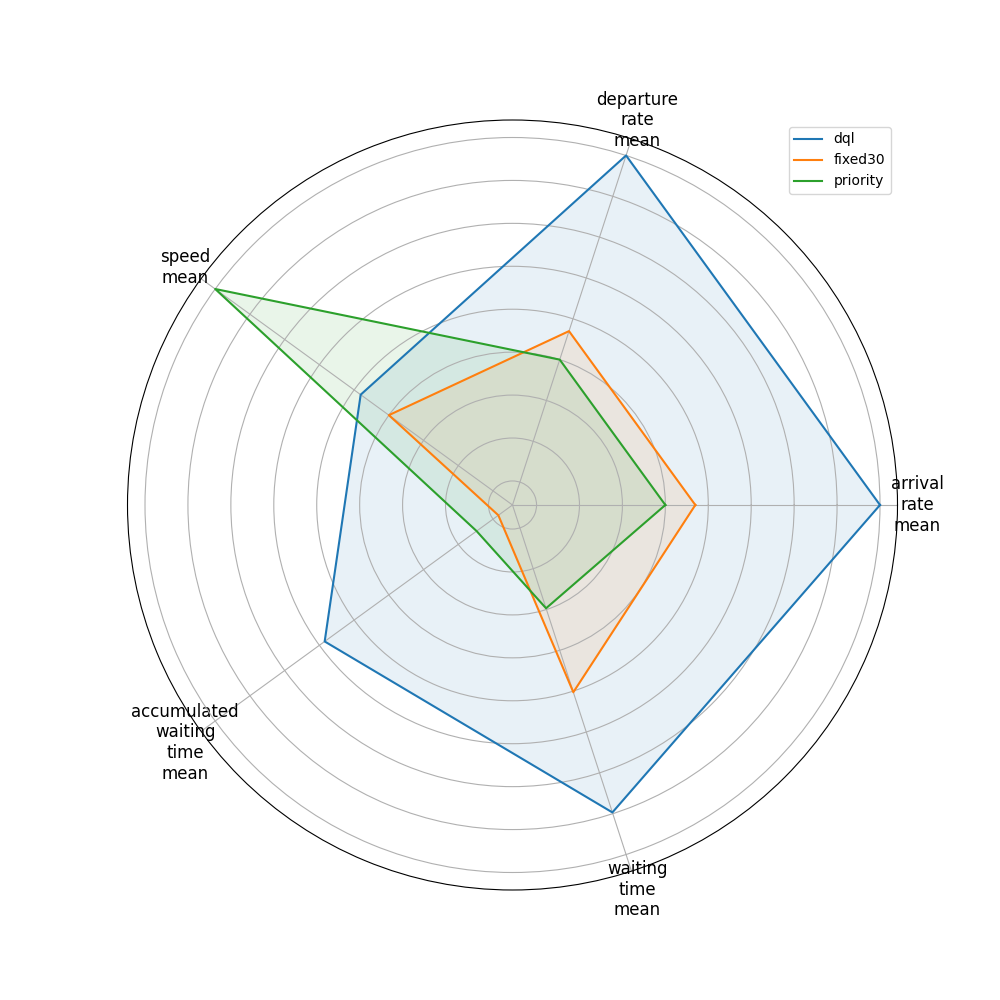
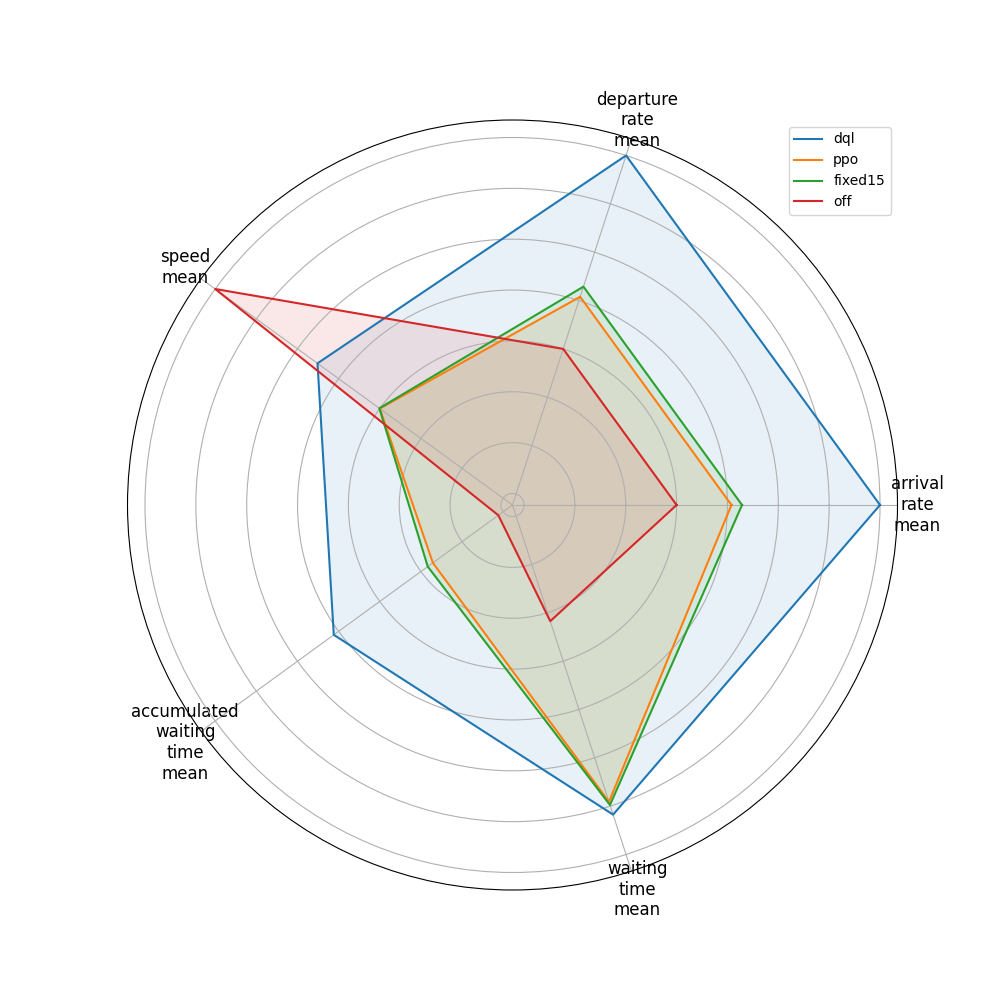
ok

diff --git a/chapters/experiments.tex b/chapters/experiments.tex
@@ -133,28 +133,61 @@ In both the experiments, the dataset being used is \textit{Curriculum Daily + Di
 
 As can be seen in Figure \ref{fig:exp-3-tab}, the QL and DQL agents show a clear advantage over the other model in terms of average speed, throughput (arrival/departure rate) and accumulated waiting time.
 In fact, their metrics are very similar: the tie is break using the accumulated waiting time metric in which the DQL agent is $1$ second faster.
-However, if we look at waiting times, the SARSA agent is in average $2$ seconds faster than the Off Policy agents.
+However, looking at waiting times, the SARSA agent is in average $2$ seconds faster than the Off Policy agents.
 Its slower score record in accumulated waiting time is probably due to SARSA's tendency to favor a faster pace experience over long run waiting time.
 
 \putimage{figures/exp/exp-3-tab.png}{Comparison of QL, SARSA and DQL agents.}{fig:exp-3-tab}{1.0}
 
 \subsection{RQ 3.2 - Which is the best implemented neural agent?}
 
+Figure \ref{fig:exp-3-neu} shows that the PPO agent bulldozes the DQN agent in almost every metric.
+Interestingly, the shape of the DQN curve in this graph is similar to the one of the worst reward/observation functions (Figures \ref{fig:exp-1-rew} and \ref{fig:exp-1-obs}).
+The only difference is that the underlying situation is very different.
+SUMO-RL allows researches to perform a graphical demo in which the agents and their configuration can be seen in action.
+A quick inspection using the demo mode revealed that the DQN agent wasn't learning at all.
+Instead, all the intersections where stuck with green light in one direction during the entirety of the simulation.
+A possible explanation is that a DQN model would need more training time to reach the performances of the other neural model.
+This hypothesis is supported with empirical evidence in the field of reinforcement learning \cite{kozlica2023deep}.
+
 \putimage{figures/exp/exp-3-neu.png}{Comparison of DQN and PPO agents.}{fig:exp-3-neu}{1.0}
 
 \subsection{RQ 3.3 - Is Deep Learning worth its cost?}
+
+The results of the experiments being carried out show that, given the same training time and conditions, a sophisticated (yet simple) tabular agent based on Q Learning can easily outperform one of the most popular and powerful neural network algorithm for reinforcement learning.
+Of course, on the long run the PPO agent \textbf{may} be able to gain ground on DQL with more training episodes, but the use of conditional is needed and the empirical evidence \cite{kozlica2023deep} suggests that usually PPO has a initial steep learning curve and after some time it comes into a plateau, just as tabular methods.
 
 \putimage{figures/exp/exp-3-tot.png}{Comparison of DQL and PPO agents.}{fig:exp-3-tot}{1.0}
 
 \section{RO 4 - Comparing Reinforcement Learning with existing solutions}
 
+Now that there is a clearer picture of the potential of the main reinforcement learning algorithms implemented in SUMO-RL, we need to understand if they stand a chance with fixed cycle traffic light programs.
+
 \subsection{RQ 4.1 - What is the impact of cycle time in Fixed Cycle Agents?}
 
-\putimage{figures/exp/exp-4-tot.png}{Comparison of Fixed15, Fixed30, Fixed45 and Fixed60 agents.}{fig:exp-4-fca}{1.0}
+In order to compare RL agents to a fixed cycle agent, it is important to select the best performing cycle time for it to work with. Figure \ref{fig:exp-4-fca} shows a comparison of four possible cycle times which are widely used in urban controlled intersections.
+A singular pattern can be noted in agent shapes: the lower is cycle time, the better are performance ratings.
+This is true for almost all the metrics but the average speed, in which this rule appears to be inverted.
 
-\subsection{RQ 4.2 - Are RL Agent an improvement over non-AI solutions?}
+A logical explanation for this phenomenon is that with lower cycle time, vehicles are waiting less time at full-stop at intersection entrance.
+Interestingly, this holds also for accumulated waiting time, in which there is a clear advantage for the lower cycle times (15 and 30).
+However, a faster pace traffic light also means that there are frequent acceleration and decelerations, therefore the average speed can be expected to be higher in long cycle times (30, 45, 60).
+Notably, the is an hidden threshold between $15$ seconds and $30$ seconds for which performance is subject to a radical change.
 
-\putimage{figures/exp/exp-4-tot.png}{Comparison of Fixed15 and DQL agents and priority based intersections.}{fig:exp-4-tot}{1.0}
+\putimage{figures/exp/exp-4-fca.png}{Comparison of Fixed15, Fixed30, Fixed45 and Fixed60 agents.}{fig:exp-4-fca}{1.0}
+
+\subsection{RQ 4.2 - Are RL Agents an improvement over non-AI solutions?}
+
+Now that the best configuration for cycle time is known, an experiment was run to compare two RL agents (PPO and DQL) with the best FixedCycle agent (Fixed15) and with unregulated intersection.
+The reasoning behind the choice of running also a priority-based intersection is that in urban tissues, not all the busy intersections are regulated with traffic light, therefore the aim is to experimentally verify which is impact of installing a traffic light on such intersections. The results of this experiment are shown in Figure \ref{fig:exp-4-tot}.
+
+\putimage{figures/exp/exp-4-tot.png}{Comparison of Fixed15, PPO and DQL agents and priority based intersections.}{fig:exp-4-tot}{1.0}
+
+The relative inefficiency of unregulated intersections is well-known and it is probably the least interesting suggestion of the radar plot.
+Interestingly, the performances of the PPO agent are very similar to the ones of a traffic light intersection with a cycle time of $15$ seconds.
+This not only shows the limit of efficiency of traffic lights with fixed cycle program, but also shows that at least the PPO agent has learnt a comparable policy.
+
+Excluding the instant waiting time, in which its average value is very close to PPO and Fixed15 agents, the DQL agent surpasses by far its competitors in every possible ways.
+Notably, the cost in terms of secondary memory of this agent is roughly $4$ MB, which means that it can be fitted into dedicated boards very easily.
 %
 % Which cycle time grants better performance? fixed30
 % Is fixed cycle traffic light an improvement over unregulated priority based intersections? Yes

diff --git a/thesis.tex b/thesis.tex
@@ -155,8 +155,8 @@
     \include{chapters/reinforcement-learning}
     \include{chapters/fasters-and-tools}
     \include{chapters/experiments}
-    \include{chapters/threats-to-validity}
-    \include{chapters/conclusions}
+    %\include{chapters/threats-to-validity}
+    %\include{chapters/conclusions}
     
     \printbibliography
 \end{document}
